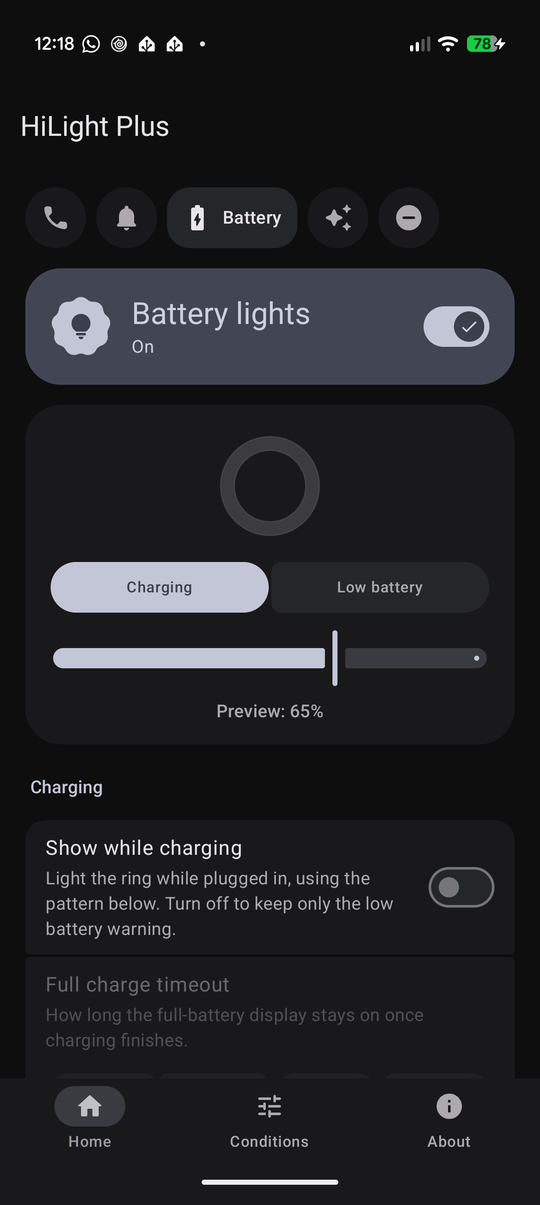
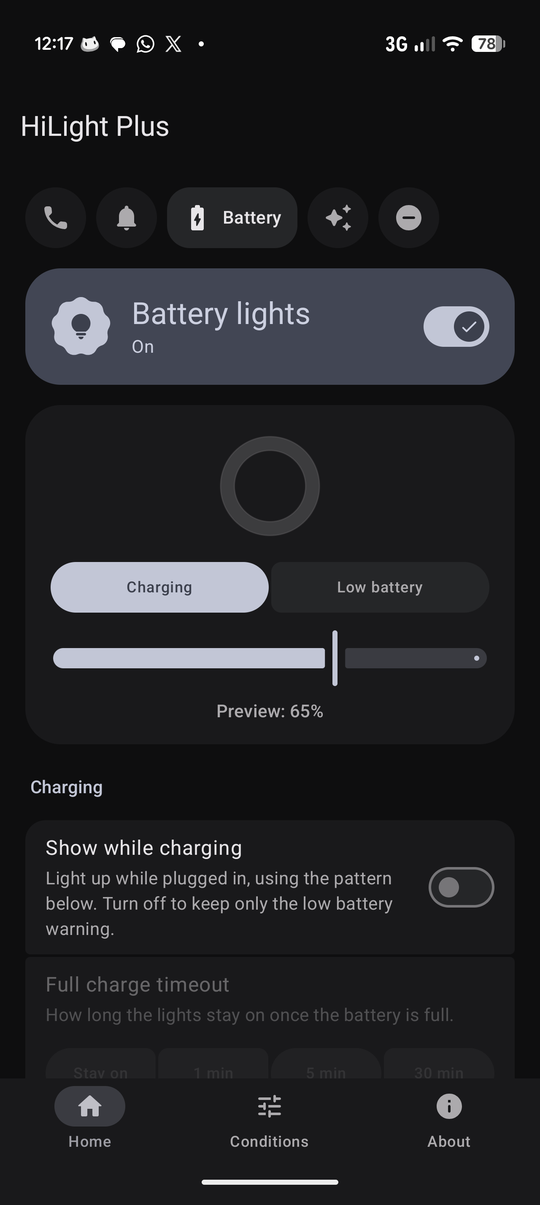
docs: retake screenshots and say "the lights" in the posts
Retake the README screenshots on the Pixel with the current build.
Reword the README, XDA and Reddit posts so they no longer say
"the ring", and note that the motion-sensor stall only seems to
happen on the Android 17 beta releases.

diff --git a/README.md b/README.md
@@ -2,14 +2,14 @@
 
 Custom rear LED lighting for the Google Pixel 11 Pro.
 
-Pixel's built-in HiLight lights the rear ring for calls from favourites and Gemini's listening, thinking and replying states, and from Android 17 QPR2 for messages from favourites too. HiLight Plus replaces all of them. It takes over the eight-LED ring behind the camera bar and lets you decide what it shows: a colour and pattern per contact or app, your own looks for Gemini's states, a charging gauge, a low-battery warning, and rules for when it should stay dark. Everything runs on-device with no accounts and no analytics; the only network use is Google Play, for the purchase and the occasional rating prompt.
+Pixel's built-in HiLight uses the rear lights for calls from favourites and Gemini's listening, thinking and replying states, and from Android 17 QPR2 for messages from favourites too. HiLight Plus replaces all of them. It takes over the eight LEDs behind the camera bar and lets you decide what they show: a colour and pattern per contact or app, your own looks for Gemini's states, a charging gauge, a low-battery warning, and rules for when they should stay dark. Everything runs on-device with no accounts and no analytics; the only network use is Google Play, for the purchase and the occasional rating prompt.
 
 <p align="center">
   <img src="docs/screenshots/calls.png" width="12%" alt="Calls page with per-contact rules" />
   <img src="docs/screenshots/rule-editor.png" width="12%" alt="Rule editor with pattern and colour pickers" />
   <img src="docs/screenshots/text-rules.png" width="12%" alt="Text rule editor matching a notification title" />
   <img src="docs/screenshots/channels.png" width="12%" alt="App rule's channel list with a channel switched off" />
-  <img src="docs/screenshots/split-ring.png" width="12%" alt="Multiple alerts set to split the ring" />
+  <img src="docs/screenshots/split-ring.png" width="12%" alt="Multiple alerts set to split the lights" />
   <img src="docs/screenshots/battery.png" width="12%" alt="Battery page with charging gauge preview" />
   <img src="docs/screenshots/gemini.png" width="12%" alt="Gemini page with listening, thinking and replying states" />
   <img src="docs/screenshots/dnd.png" width="12%" alt="Do Not Disturb page with its indicator and options" />
@@ -20,7 +20,7 @@ Pixel's built-in HiLight lights the rear ring for calls from favourites and Gemi
 **Calls**
 - A colour and pattern per contact, with separate defaults for all other saved contacts and for unknown numbers.
 - A favourites style for your starred contacts, used when a caller has no rule of their own.
-- Works for phone calls and for app calls such as WhatsApp, Teams and Meet. The ring lights until the call is answered or ended.
+- Works for phone calls and for app calls such as WhatsApp, Teams and Meet. The lights stay on until the call is answered or ended.
 - An optional missed-call style, whoever called, that stays lit until the missed-call notification is dismissed.
 
 **Notifications**
@@ -28,20 +28,20 @@ Pixel's built-in HiLight lights the rear ring for calls from favourites and Gemi
 - Starred contacts can share a favourites style, which sits between a sender's own rule and the app rule.
 - App rules can switch off individual notification channels, such as an app's promotions or group chats. Each channel is listed by name once the app posts a notification on it, and lights until it's switched off. A text or contact rule can still light a switched-off channel.
 - Text rules: light up when a notification's title or message contains, or is exactly, some text, from any app or just one. They're checked before every other notification rule, so a title containing "Delivery" or a message containing "verification code" can have its own look.
-- App rules light for the app's notifications, its progress, or both. With progress, a running timer, such as Clock's, empties the ring as it counts down, turning amber at halfway and red near the end, and a download or other progress bar fills it in the rule's colour, or the app icon's for progress only. The lights go dark once the timer ends or the bar finishes. With both, the app's notifications light over its progress unless Timers & progress is moved above Notifications in the Priority list.
+- App rules light for the app's notifications, its progress, or both. With progress, a running timer, such as Clock's, counts down as the lights go out one by one, turning amber at halfway and red near the end, and a download or other progress bar lights them one by one in the rule's colour, or the app icon's for progress only. The lights go dark once the timer ends or the bar finishes. With both, the app's notifications light over its progress unless Timers & progress is moved above Notifications in the Priority list.
 - Thirteen patterns, picked by group (Simple, Motion, Gemini): solid, breathe, pulse, beacon, wave, comet, orbit, ripple, sparkle, rainbow, and copies of Gemini's own listening, thinking and replying effects.
 - Eight preset colours or any custom colour from a colour wheel, for every rule, battery's fixed colour and Gemini's states. The custom colour's hex code can be copied and pasted into another rule.
 - A brightness setting, from 10% to 100%, for every rule and each of Gemini's states.
 - A speed setting, from half to twice each pattern's own pace, for every rule and each of Gemini's states.
-- Every pattern, including the Gemini ones, is handed to the ring's own light controller as a looping effect, the same way stock Gemini lights it. The ring animates by itself instead of the app redrawing it many times a second.
+- Every pattern, including the Gemini ones, is handed to the lights' own controller as a looping effect, the same way stock Gemini does it. The lights animate by themselves instead of the app redrawing them many times a second.
 - Three ways to handle several notifications at once:
   - *Newest only* lights the latest for a chosen duration.
   - *Take turns* plays each waiting notification's pattern in turn until it is dismissed.
-  - *Split the lights* gives each waiting notification its own arc in its colour, up to four, newest at the top. The arcs can breathe, stay solid, brighten in turn (*Spotlight*) or circle the ring (*Rotate*). Breathe and Spotlight move between a dimmest and brightest level you set; Solid and Rotate hold one steady level. A note appears when a setting may let neighbouring colours blend or a dim arc look like spill from the next. Its animation speed can be set from half to twice its own pace. It has its own Test on LEDs button. Optionally, each new notification first plays its own rule's pattern once before the arcs come back.
+  - *Split the lights* gives each waiting notification its own section of the lights in its colour, up to four, newest at the top. The sections can breathe, stay solid, brighten in turn (*Spotlight*) or move round the lights (*Rotate*). Breathe and Spotlight move between a dimmest and brightest level you set; Solid and Rotate hold one steady level. A note appears when a setting may let neighbouring colours blend or a dim section look like spill from the next. Its animation speed can be set from half to twice its own pace. It has its own Test on LEDs button. Optionally, each new notification first plays its own rule's pattern once before the sections come back.
 - Lights stop when the notification is dismissed.
 
 **Battery**
-- Charging gauge, charge-fill or gradient ring while plugged in, with an automatic red-to-green colour by level or a fixed colour.
+- Charging gauge, charge-fill or gradient while plugged in, with an automatic red-to-green colour by level or a fixed colour.
 - Full-charge display with a configurable timeout.
 - Low-battery warning below a threshold you choose.
 - Battery sits underneath calls, Gemini, notifications and timers unless moved up the Priority list on the Conditions page.
@@ -53,38 +53,38 @@ Pixel's built-in HiLight lights the rear ring for calls from favourites and Gemi
 - Gemini broadcasts none of this, so the daemon follows Gemini's own app log, on the phone only.
 
 **Do Not Disturb**
-- Lights the ring to show Do Not Disturb is on, in any pattern, colour, brightness and speed, edited like any rule.
-- Six calm patterns of its own: DND sign (the 3 and 9 o'clock LEDs, the bar across the ring's circle, and the default), crescent, sleep, snooze, glance and drift.
+- Lights up to show Do Not Disturb is on, in any pattern, colour, brightness and speed, edited like any rule.
+- Six calm patterns of its own: DND sign (the 3 and 9 o'clock LEDs, the bar of the Do Not Disturb icon, and the default), crescent, sleep, snooze, glance and drift.
 - Shows for as long as Do Not Disturb is on, or only for the first 10 seconds, 1 minute or 5 minutes.
-- An optional flash as Do Not Disturb turns on (a sweep round the ring) and off (the same sweep backwards). It plays over everything, calls included, and whatever it covered carries on after it.
+- An optional flash as Do Not Disturb turns on (a sweep round the lights) and off (the same sweep backwards). It plays over everything, calls included, and whatever it covered carries on after it.
 - Follows the face-down and quiet-hours conditions, or its own. The indicator sits at the bottom of the Priority list, underneath everything else, unless moved up.
 - Goes dark by itself if the app stops confirming Do Not Disturb is still on, so it can't be left lit.
 
 **Conditions**
 - Only light when the phone is face down.
-- On some Pixel builds the phone's motion sensors can stop sending readings to apps after hours of use. Other apps, the camera included, are affected too, and only a restart fixes it. Face-down rules can't light while it lasts, so the app spots it and shows a notification and a card on Home telling you to restart the phone. Both clear once readings return.
+- The phone's motion sensors can stop sending readings to apps after hours of use, which only seems to happen on the Android 17 beta releases. Other apps, the camera included, are affected too, and only a restart fixes it. Face-down rules can't light while it lasts, so the app spots it and shows a notification and a card on Home telling you to restart the phone. Both clear once readings return.
 - Skip during Do Not Disturb.
 - Quiet hours the same every day, different at weekends, or set day by day with any day left out. An overnight window counts for the day it starts on.
 - Every rule can follow these defaults, always light, or opt out, and rules can carry their own quiet-hours window.
-- Pocket mode, on by default: the ring stays dark in a pocket or bag and lights once the phone is out. Lying face down never counts as a pocket, so face-down rules keep working. It applies to everything and can be turned off on the Conditions page.
+- Pocket mode, on by default: the lights stay dark in a pocket or bag and come on once the phone is out. Lying face down never counts as a pocket, so face-down rules keep working. It applies to everything and can be turned off on the Conditions page.
 - Priority: the lights show one thing at a time, and a drag-to-reorder list decides which. Whichever is higher is shown. The default order is Calls, Gemini, Notifications, Timers & progress, Battery, DND. If something higher is hidden by its own conditions, such as a call set to light only face down while the phone is face up, the next one down shows instead.
 
 **Pause**
-- A Pause lights tile in Quick Settings keeps the ring dark for a while: everything, or just calls, notifications, battery, Gemini or Do Not Disturb.
+- A Pause lights tile in Quick Settings keeps the lights dark for a while: everything, or just calls, notifications, battery, Gemini or Do Not Disturb.
 - Pause for 1 hour, 2 hours, until morning (when your quiet hours end, or 07:00) or until you resume. The sheet remembers your last choice.
 - While paused, the tile shows what's paused and until when, and a tap on it resumes. Home shows a card with the same details, what still lights, and Resume and Change buttons.
 - Notifications that arrive during a pause still queue, and light once it ends if they haven't been dismissed.
-- The ring also stays dark by itself while any app has a rear camera open, so it can't tint photos or video. Alerts held back light once the camera closes.
+- The lights also stay dark by themselves while any app has a rear camera open, so they can't tint photos or video. Alerts held back light once the camera closes.
 
 **Extras**
-- Live preview of every pattern on a diffused ring mock-up, and a Test on LEDs button in each rule editor. Changing the pattern, colour, brightness or speed while a test plays restarts it with the new look.
+- Live preview of the lights for every pattern, and a Test on LEDs button in each rule editor. Changing the pattern, colour, brightness or speed while a test plays restarts it with the new look.
 - Custom rule lists can be sorted from their header: contacts by first or last name, apps by name, A–Z or Z–A, or left in the order they were added. Each list remembers its own choice.
-- Onboarding that connects to the ring, checks permissions and the stock HiLight settings that would otherwise fight for the ring, and explains the trial. Connecting is a self-ticking checklist: each switch is detected as you flip it, Settings opens at the right row, and a notification follows you there so you can type the pairing code without coming back to the app.
+- Onboarding that connects to the lights, checks permissions and the stock HiLight settings that would otherwise fight for them, and explains the trial. Connecting is a self-ticking checklist: each switch is detected as you flip it, Settings opens at the right row, and a notification follows you there so you can type the pairing code without coming back to the app.
 - People updating from a Shizuku-only version get a one-time prompt to switch to the built-in connection, which then keeps itself running across restarts.
 - A live debug log on the About page, covering the app and the daemon, with one-tap clear and share. A shared report adds device and permission status, what the daemon is holding and every setting and rule, with contact names left out.
-- Settings backup on the About page: save every rule and setting to a file you choose, and restore it after a reinstall. The purchase isn't in the file (Google Play restores it), and the connection to the ring is set up again after reinstalling.
-- Google Play's own rating sheet, shown at most once every 90 days and only once the app has proved itself: installed for three days, a custom rule saved, the ring lit ten times, and working. Also offered right after the purchase. Play decides whether it actually appears. A Rate on Google Play row on the About page opens the listing any time.
-- A Reset lights button that restarts the daemon, freeing a ring stuck on a stale light session without restarting the phone. Waiting notifications and a ringing call light again once it reconnects. The app also checks the ring on unlock and resets automatically if the LEDs don't show what the daemon last sent.
+- Settings backup on the About page: save every rule and setting to a file you choose, and restore it after a reinstall. The purchase isn't in the file (Google Play restores it), and the connection to the lights is set up again after reinstalling.
+- Google Play's own rating sheet, shown at most once every 90 days and only once the app has proved itself: installed for three days, a custom rule saved, the lights switched on ten times, and working. Also offered right after the purchase. Play decides whether it actually appears. A Rate on Google Play row on the About page opens the listing any time.
+- A Reset lights button that restarts the daemon, freeing lights stuck on a stale light session without restarting the phone. Waiting notifications and a ringing call light again once it reconnects. The app also checks the lights on unlock and resets automatically if the LEDs don't show what the daemon last sent.
 
 ## Requirements
 
@@ -97,7 +97,7 @@ Pixel's built-in HiLight lights the rear ring for calls from favourites and Gemi
 - **Recommended:** turn on **Disable adb authorization timeout** in Developer options. Android otherwise forgets a pairing that goes unused for 7 days, and the app only uses it to start the daemon, so it can expire unnoticed. The app suggests this after connecting and on the About page, but never changes it itself. If the pairing is lost anyway, a notification and a card on Home say so straight away, while the running daemon keeps the lights going, and lead back to pairing.
 - Wi-Fi whenever the daemon needs starting (setup, a reboot, an update), because Wireless debugging only runs on Wi-Fi. Once running, it needs no network. On a Wi-Fi network where Wireless debugging has never been allowed, Android asks first; the app says what to do and carries on once you allow it.
 - Or, instead, [Shizuku](https://shizuku.rikka.app/) running, over wireless debugging or root. Supported for anyone who prefers it.
-- The stock "Calls from favourites", Gemini feedback and (from Android 17 QPR2) "Messages from favourites" HiLight options turned off, otherwise they and HiLight Plus will try to drive the ring at once. Onboarding checks this for you, and the Notifications page warns if "Messages from favourites" is switched back on.
+- The stock "Calls from favourites", Gemini feedback and (from Android 17 QPR2) "Messages from favourites" HiLight options turned off, otherwise they and HiLight Plus will try to drive the lights at once. Onboarding checks this for you, and the Notifications page warns if "Messages from favourites" is switched back on.
 
 ## Permissions
 
@@ -112,18 +112,18 @@ Pixel's built-in HiLight lights the rear ring for calls from favourites and Gemi
 | Write secure settings | Granted by the daemon itself after the first connection, so the app can switch Wireless debugging on for a start (after a reboot, say), and off again straight after when USB debugging is on. From Android 17 QPR3 Beta 3, Android no longer accepts this for Wireless debugging; the daemon switches it instead, as described under Requirements |
 | Shizuku (optional) | Talk to the lights daemon over local Binder IPC, for people who start it through Shizuku |
 
-No camera permission is used either: Android tells every app when a camera opens and closes, which is all the app needs to keep the ring dark while a rear camera is in use. No phone-state or call-log permission is used: incoming calls, cellular or app, are recognised from the dialer's own call notification. Contacts and notification content never leave the device. The only network activity off the phone is Google Play, for the purchase and the in-app rating sheet; the Wireless debugging connection is to the phone itself. See [PRIVACY_POLICY.md](PRIVACY_POLICY.md) for the full policy.
+No camera permission is used either: Android tells every app when a camera opens and closes, which is all the app needs to keep the lights dark while a rear camera is in use. No phone-state or call-log permission is used: incoming calls, cellular or app, are recognised from the dialer's own call notification. Contacts and notification content never leave the device. The only network activity off the phone is Google Play, for the purchase and the in-app rating sheet; the Wireless debugging connection is to the phone itself. See [PRIVACY_POLICY.md](PRIVACY_POLICY.md) for the full policy.
 
 ## How it works
 
 The app has two halves:
 
 - **The app process** hosts the UI, the notification listener and the battery receiver. It resolves each event against your rules and decides colour, pattern and conditions.
-- **The daemon** (`HiLightDaemonService`) runs with shell UID. The app starts it itself over Wireless debugging (`WirelessAdb` pairs once, then launches `DaemonMain` through `app_process`, and the daemon hands its binder back through a content provider), or Shizuku starts it as a UserService. Only the app's UID may call it. It talks to `ILightsManager` through reflection and applies live gating for face-down, Do Not Disturb and quiet hours so lights already playing react to changes. Whenever what the ring should show changes, it sends one Android 17 light effect (`setLightEffect`): `RingEffect` samples the pattern over a loop and reduces each LED to at most nine keyframes, since the Pixel lights HAL crashes on larger effects, and turning patterns are built from one LED shifted round the ring. The ring's controller then plays it with no further calls. If the lights service refuses effects, the daemon falls back to pushing frames at roughly 30 per second. While Gemini lights are on, `GeminiWatcher` follows Gemini's log (a `logcat` limited to Gemini's UID, matched on message text since Gemini's tags are obfuscated) and `GeminiLogParser` turns it into listening, thinking, replying or idle, with a time limit on each state so the ring can't be left lit. The app and daemon talk over an AIDL interface.
+- **The daemon** (`HiLightDaemonService`) runs with shell UID. The app starts it itself over Wireless debugging (`WirelessAdb` pairs once, then launches `DaemonMain` through `app_process`, and the daemon hands its binder back through a content provider), or Shizuku starts it as a UserService. Only the app's UID may call it. It talks to `ILightsManager` through reflection and applies live gating for face-down, Do Not Disturb and quiet hours so lights already playing react to changes. Whenever what the lights should show changes, it sends one Android 17 light effect (`setLightEffect`): `RingEffect` samples the pattern over a loop and reduces each LED to at most nine keyframes, since the Pixel lights HAL crashes on larger effects, and turning patterns are built from one LED shifted round the lights. The lights' controller then plays it with no further calls. If the lights service refuses effects, the daemon falls back to pushing frames at roughly 30 per second. While Gemini lights are on, `GeminiWatcher` follows Gemini's log (a `logcat` limited to Gemini's UID, matched on message text since Gemini's tags are obfuscated) and `GeminiLogParser` turns it into listening, thinking, replying or idle, with a time limit on each state so the lights can't be left lit. The app and daemon talk over an AIDL interface.
 
-Face-down detection reads the gravity sensor only while something is waiting to light, so there is no idle sensor cost. Gravity doesn't wake a sleeping phone, so it is paired with the wake-up tilt detector, which fires in the sensor hub when the phone turns and wakes the app to check. If several checks in a row get no gravity reading, the app treats the motion sensors as stalled and shows the restart notification and Home card until readings return.
+Face-down detection reads the gravity sensor only while something is waiting to light, so there is no idle sensor cost. Gravity doesn't wake a sleeping phone, so it is paired with the wake-up tilt detector, which fires in the sensor hub when the phone turns and wakes the app to check. If several checks in a row get no gravity reading, the app treats the motion sensors as stalled, which only seems to happen on the Android 17 beta releases, and shows the restart notification and Home card until readings return.
 
-Pocket mode reads the wake-up proximity sensor, also only while something is waiting to light. Covered for a second while not lying flat face down counts as a pocket, and the daemon keeps the ring dark as it does for a rear camera; alerts stay queued. Orientation is only watched while the sensor is covered, so a phone taken from a pocket and put face down lights again.
+Pocket mode reads the wake-up proximity sensor, also only while something is waiting to light. Covered for a second while not lying flat face down counts as a pocket, and the daemon keeps the lights dark as it does for a rear camera; alerts stay queued. Orientation is only watched while the sensor is covered, so a phone taken from a pocket and put face down lights again.
 
 ## Building
 
@@ -139,11 +139,11 @@ Standard Android Gradle project. Open in Android Studio or run:
 
 Release builds are minified with R8. There is also a `debugMinified` variant, signed with the debug key, for checking the shrunk app on a device. Keep the `mapping.txt` from each release build for readable crash reports.
 
-Unit tests cover the rule model, JSON round-tripping, contact matching, rule sorting, quiet hours, the pattern renderer, the battery and split-ring layouts, the conversion of every look into a hardware effect within the keyframe budget, the Gemini log parser, timer and progress-bar readings and the countdown ring, the call-state machine, the notification slot tracker, the priority order and the connect-setup guide. Anything that touches the LEDs needs a physical Pixel.
+Unit tests cover the rule model, JSON round-tripping, contact matching, rule sorting, quiet hours, the pattern renderer, the battery and Split the lights layouts, the conversion of every look into a hardware effect within the keyframe budget, the Gemini log parser, timer and progress-bar readings and the countdown display, the call-state machine, the notification slot tracker, the priority order and the connect-setup guide. Anything that touches the LEDs needs a physical Pixel.
 
 ## Pricing
 
-The [Google Play](https://play.google.com/store/apps/details?id=com.mwilky.hilight.plus) build is free for 7 days, then a single one-off purchase unlocks it for good. No subscription. The trial starts the first time HiLight Plus connects to the ring and is recorded in a system setting, so it survives clearing app data.
+The [Google Play](https://play.google.com/store/apps/details?id=com.mwilky.hilight.plus) build is free for 7 days, then a single one-off purchase unlocks it for good. No subscription. The trial starts the first time HiLight Plus connects to the lights and is recorded in a system setting, so it survives clearing app data.
 
 The source is GPL-3.0 and you are welcome to build and install it yourself. A self-built APK is signed with your own key, so it cannot be updated from Play and does not include the purchase. Buying the Play version is the way to support development.
 

diff --git a/docs/reddit-post.md b/docs/reddit-post.md
@@ -1,6 +1,6 @@
-I've been working on an app for the Pixel 11 Pro's rear LED ring and it's now on Google Play. Out of the box the ring only does a few things: calls from favourites, Gemini's listening/thinking/replying lights, and on Android 17 QPR2 and later, messages from favourites. HiLight Plus takes it over so you can decide what it shows.
+I've been working on an app for the Pixel 11 Pro's rear LEDs and it's now on Google Play. Out of the box the lights only do a few things: calls from favourites, Gemini's listening/thinking/replying lights, and on Android 17 QPR2 and later, messages from favourites. HiLight Plus takes them over so you can decide what they show.
 
-The short version: a colour and pattern for each contact or app, a charging gauge, a low battery warning, a Do Not Disturb indicator, and rules for when it should stay dark. It can also redo Gemini's lights in whatever look you want.
+The short version: a colour and pattern for each contact or app, a charging gauge, a low battery warning, a Do Not Disturb indicator, and rules for when the lights should stay dark. It can also redo Gemini's lights in whatever look you want.
 
 And best of all, no root and no Shizuku needed!
 
@@ -20,17 +20,17 @@ And best of all, no root and no Shizuku needed!
 * Rules per sender and per app. App rules can pull the colour from the app icon.
 * App rules can switch off individual notification channels, so promos or group chats stay dark while the rest of the app lights. Channels show up by name as the app posts on them.
 * Text rules, for when a title or message contains (or is exactly) some text. Handy for delivery updates or verification codes, from any app or just one.
-* App rules can light for progress, notifications or both. Start a timer in Clock and the ring empties as it counts down, going amber at halfway and red near the end. Downloads and other progress bars fill it up in the rule's colour instead, or the app icon's if it's progress only.
+* App rules can light for progress, notifications or both. Start a timer in Clock and the lights go out one by one as it counts down, going amber at halfway and red near the end. Downloads and other progress bars light them one by one in the rule's colour instead, or the app icon's if it's progress only.
 * 13 patterns in three groups: Simple, Motion and Gemini. Solid, Breathe, Pulse, Wave, Comet, Orbit, Beacon, Ripple, Sparkle, Rainbow, plus Gemini's own Listening, Thinking and Replying effects.
 * Eight preset colours or anything from a colour wheel.
 * Brightness from a dim glow to full, and speed from half to double the pattern's normal pace, per rule.
-* Patterns run as looping effects on the ring's own light controller, the same way stock Gemini does it, so they're smooth and the app isn't redrawing the ring many times a second.
-* When several notifications are waiting you can show the newest only, take turns through them, or split the ring into an arc per notification (up to four). Split arcs can breathe, stay solid, spotlight in turn or rotate round the ring, and each new notification can optionally play its own pattern once before the arcs come back.
+* Patterns run as looping effects on the lights' own controller, the same way stock Gemini does it, so they're smooth and the app isn't redrawing them many times a second.
+* When several notifications are waiting you can show the newest only, take turns through them, or split the lights into a section per notification (up to four). The sections can breathe, stay solid, spotlight in turn or rotate round the lights, and each new notification can optionally play its own pattern once before the sections come back.
 * Lights go off the moment the notification is cleared from the shade.
 
 **Battery**
 
-* Charging gauge, fill animation or gradient ring while plugged in.
+* Charging gauge, fill animation or gradient while plugged in.
 * Red to green by charge level, or a fixed colour.
 * Full charge indicator with a timeout.
 * Low battery warning at whatever level you set.
@@ -44,34 +44,34 @@ And best of all, no root and no Shizuku needed!
 
 **Do Not Disturb**
 
-* Lights the ring while Do Not Disturb is on, with its own colour, brightness and speed.
+* Lights up while Do Not Disturb is on, with its own colour, brightness and speed.
 * Six calm patterns just for this: DND sign (the 3 and 9 o'clock LEDs), Crescent, Sleep, Snooze, Glance and Drift.
 * Show it the whole time DND is on, or just for the first 10 seconds, 1 minute or 5 minutes.
-* Optional sweep round the ring as DND turns on, and backwards as it turns off.
+* Optional sweep round the lights as DND turns on, and backwards as it turns off.
 
 **Conditions**
 
 * Face down only. The accelerometer only runs while something is waiting to light.
-* On some Pixel builds I've seen the motion sensors stop sending readings to apps after hours of use (the camera's affected too), and only a restart fixes it. Face-down rules can't light while that lasts, so the app spots it and tells you to restart with a notification and a card on Home. Both clear once readings come back.
+* I've seen the motion sensors stop sending readings to apps after hours of use, which only seems to happen on the Android 17 beta releases. The camera's affected too, and only a restart fixes it. Face-down rules can't light while that lasts, so the app spots it and tells you to restart with a notification and a card on Home. Both clear once readings come back.
 * Stay dark during Do Not Disturb.
 * Quiet hours, with per-rule overrides. Weekends can have their own times, or you can set each day separately.
-* Pocket mode, on by default. No glowing through your jeans: the ring waits until the phone's out of your pocket. Face down on a table doesn't count, so face-down rules still work.
+* Pocket mode, on by default. No glowing through your jeans: the lights wait until the phone's out of your pocket. Face down on a table doesn't count, so face-down rules still work.
 * Priority. The lights only show one thing at a time, so there's a list of Calls, Gemini, Notifications, Timers & progress, Battery and DND that you drag into the order you want, and whichever is higher gets shown. That's the default order too. If something higher is hidden by its own conditions (say a face-down-only call while the phone's face up), the next one down shows instead.
 
 **Pause**
 
 * A Quick Settings tile pauses everything, or just calls, notifications, battery, Gemini or Do Not Disturb. 1 hour, 2 hours, until morning, or until you resume.
 * Notifications that arrive during a pause still queue and light afterwards if they're still there.
-* The ring also goes dark on its own whenever a rear camera is open so it can't tint your photos.
+* The lights also go dark on their own whenever a rear camera is open so they can't tint your photos.
 
 **Other bits**
 
-* Live preview of every pattern on a ring mock-up, plus a Test on LEDs button in each rule editor.
+* Live preview of the lights for every pattern, plus a Test on LEDs button in each rule editor.
 * Sort rule lists by first name, last name or app name.
 * Guided onboarding that ticks each setting off as you flip it, with a notification that follows you into Settings for the pairing step.
 * Debug log you can share if something goes wrong (contact names are left out).
 * Back up and restore your rules to a file.
-* Reset lights button for a stuck ring, and an automatic check on unlock.
+* Reset lights button for stuck lights, and an automatic check on unlock.
 
 **Requirements**
 
@@ -81,6 +81,6 @@ And best of all, no root and no Shizuku needed!
 * On Android 17 QPR3 Beta 3 and later, Google stopped apps switching Wireless debugging on. The helper still can, so it switches it on as the phone shuts down, and the lights come back by themselves after a reboot as long as you're on a Wi-Fi network you've allowed it on. If you had it off, it goes back off once the lights are running. After a crash or a reboot elsewhere, the app tells you and starts the lights as soon as you turn it on. Leaving it on avoids that altogether.
 * I'd recommend turning on "Disable adb authorization timeout" in Developer options, otherwise Android forgets the pairing after 7 days unused. The app suggests it but won't change it for you, and tells you if the pairing is lost.
 * [Shizuku](https://shizuku.rikka.app/) works too, over wireless debugging or root, if you'd rather use that.
-* Turn off the stock "Calls from favourites", "Gemini feedback" and (on QPR2 and later) "Messages from favourites" HiLight options so they don't fight over the ring. Onboarding checks this.
+* Turn off the stock "Calls from favourites", "Gemini feedback" and (on QPR2 and later) "Messages from favourites" HiLight options so they don't fight over the lights. Onboarding checks this.
 
 It's open source under GPL-3.0: [github.com/mwilky/hilight-plus](https://github.com/mwilky/hilight-plus). Happy to answer questions or take suggestions, and if something doesn't work on your phone the debug log share in About is the quickest way to get it to me.
